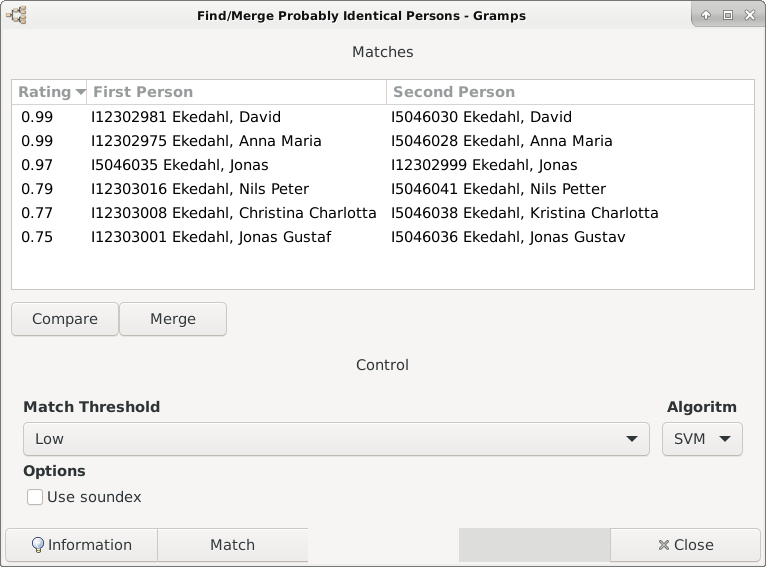
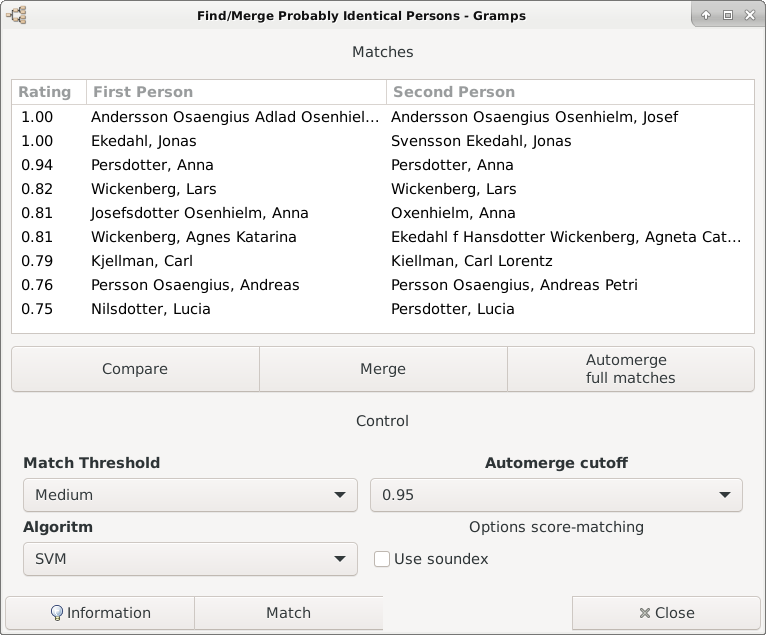
Implemented automerge of matches with rating above a cutoff

diff --git a/treemerge.py b/treemerge.py
@@ -55,6 +55,8 @@ from gramps.gui.dialog import RunDatabaseRepair
 from gramps.gen.const import GRAMPS_LOCALE as glocale
 _ = glocale.translation.sgettext
 from gramps.gui.glade import Glade
+from gramps.gen.merge import MergePersonQuery
+from gramps.gui.dialog import QuestionDialog3
 
 #from libaccess import *
 
@@ -77,13 +79,12 @@ _val2label = {
     0.75  : _("Medium"),
     0.9  : _("High"),
     }
-ALGORITM_SCORE = 1
-ALGORITM_SVM = 2
-_alg2label = {
-    ALGORITM_SCORE: _("Score"),
-    ALGORITM_SVM: _("SVM")
-    }
 
+_automergecutoff = {
+    0.99: "0.99",
+    0.95: "0.95",
+    0.90: "0.90"
+    }
 #WIKI_HELP_PAGE = '%s_-_Tools' % URL_MANUAL_PAGE
 #WIKI_HELP_SEC = _('Find_Possible_Duplicate_People', 'manual')
 
@@ -128,7 +129,7 @@ class TreeMerge(tool.Tool, ManagedWindow):  #CHECK use BatchTool when using auto
         self.p1 = None
         self.p2 = None
 
-        top = Glade(toplevel="treemerge", also_load=["liststore1", "liststore2"])
+        top = Glade(toplevel="treemerge", also_load=["liststore1", "liststore2", "liststore3"])
 
         # retrieve options
         threshold = self.options.handler.options_dict['threshold']
@@ -139,21 +140,32 @@ class TreeMerge(tool.Tool, ManagedWindow):  #CHECK use BatchTool when using auto
         for val in sorted(_val2label, reverse=True):
             my_menu.append([_val2label[val], val])
 
-        my_algmenu = Gtk.ListStore(str, object)
-        for val in sorted(_alg2label, reverse=True):
-            my_algmenu.append([_alg2label[val], val])
+        #my_algmenu = Gtk.ListStore(str, object)
+        #for val in sorted(_alg2label, reverse=True):
+        #    my_algmenu.append([_alg2label[val], val])
+
+        my_automergecutoff = Gtk.ListStore(str, object)
+        for val in sorted(_automergecutoff, reverse=True):
+            my_automergecutoff.append([_automergecutoff[val], val])
 
         self.soundex_obj = top.get_object("soundex1")
-        self.soundex_obj.set_active(1) # Default value
+        self.soundex_obj.set_active(0) # Default value
         self.soundex_obj.show()
 
         self.menu = top.get_object("menu1")
         self.menu.set_model(my_menu)
         self.menu.set_active(0)
 
-        self.algmenu = top.get_object("algoritmMenu")
-        self.algmenu.set_model(my_algmenu)
+        algoritm = Gtk.ListStore(str, object)
+        algoritm. append(["SVM", "svm"])
+        algoritm. append(["Score", "score"])
+        self.algmenu = top.get_object("algoritm")
+        self.algmenu.set_model(algoritm)
         self.algmenu.set_active(0)
+
+        self.automergecutoff = top.get_object("automergecutoff")
+        self.automergecutoff.set_model(my_automergecutoff)
+        self.automergecutoff.set_active(1)
 
         mlist = top.get_object("mlist1")
         mtitles = [
@@ -177,6 +189,9 @@ class TreeMerge(tool.Tool, ManagedWindow):  #CHECK use BatchTool when using auto
         compbtn.connect('clicked', self.do_comp)
         mergebtn = top.get_object("mergebtn")
         mergebtn.connect('clicked', self.do_merge)
+        automergebtn = top.get_object("automerge")
+        automergebtn.connect('clicked', self.do_automerge)
+        automergebtn.set_tooltip_text('WARN automerge')
         closebtn = top.get_object("closebtn")
         closebtn.connect('clicked', self.close)
 
@@ -233,7 +248,7 @@ class TreeMerge(tool.Tool, ManagedWindow):  #CHECK use BatchTool when using auto
 
     def redraw(self):
         list = []
-        for p1key, p1data in self.map.items():
+        for p1key, p1data in sorted(self.map.items(), key=lambda item: item[1][1], reverse=True):
             if p1key in self.dellist:
                 continue
             (p2key, c) = p1data
@@ -242,7 +257,6 @@ class TreeMerge(tool.Tool, ManagedWindow):  #CHECK use BatchTool when using auto
             if p1key == p2key:
                 continue
             list.append((c, p1key, p2key))
-
         self.mlist.clear()
         for (c, p1key, p2key) in list:
             c1 = "%5.2f" % c
@@ -251,8 +265,10 @@ class TreeMerge(tool.Tool, ManagedWindow):  #CHECK use BatchTool when using auto
             p2 = self.db.get_person_from_handle(p2key)
             if not p1 or not p2:
                 continue
-            pn1 = "%s %s" % (p1.gramps_id, name_displayer.display(p1))
-            pn2 = "%s %s" % (p2.gramps_id, name_displayer.display(p2))
+            #pn1 = "%s %s" % (p1.gramps_id, name_displayer.display(p1))
+            #pn2 = "%s %s" % (p2.gramps_id, name_displayer.display(p2))
+            pn1 = name_displayer.display(p1)
+            pn2 = name_displayer.display(p2)
             self.mlist.add([c1, pn1, pn2, c2],(p1key, p2key))
 
     def do_merge(self, obj):
@@ -265,6 +281,35 @@ class TreeMerge(tool.Tool, ManagedWindow):  #CHECK use BatchTool when using auto
         MergePerson(self.dbstate, self.uistate, self.track, self.p1, self.p2,
                     self.on_update, True)
 
+    def do_automerge(self, obj):
+        cutoff = self.automergecutoff.get_model()[self.automergecutoff.get_active()][1]
+        msg1 = 'Warning'
+        label_msg1 = 'OK'
+        label_msg2 = 'NO thanks'
+        ant = 0
+        matches = []
+        #sort by rating = c
+        for p1key, p1data in sorted(self.map.items(), key=lambda item: item[1][1], reverse=True):
+            if p1key in self.dellist:
+                continue
+            (p2key, c) = p1data
+            if c < cutoff or p2key in self.dellist:
+                continue
+            if p1key == p2key:
+                continue
+            matches.append((p1key, p2key))
+        msg2 = 'You are about to batch merge %d matches with rating above %s' % (len(matches), cutoff)
+        res = QuestionDialog3(msg1, msg2, label_msg1, label_msg2).run()
+        if not res or res == -1: return
+        for (p1key, p2key) in matches:
+            continue #TMP
+            primary = self.dbstate.db.get_person_from_handle(p1key)
+            secondary = self.dbstate.db.get_person_from_handle(p2key)
+            query = MergePersonQuery(self.dbstate.db, primary, secondary)
+            #TMP#query.execute()
+            #Handle names, events: birth, death
+            person = self.dbstate.db.get_person_from_handle(p1key)
+        
     def do_comp(self, obj):
         store, iter = self.mlist.selection.get_selected()
         if not iter:
@@ -384,9 +429,10 @@ class TreeMergeOptions(tool.ToolOptions):
 
         # Options specific for this report
         self.options_dict = {
-            'soundex'   : 1,
+            'soundex'   : 0,
             'threshold' : 0.75,
-            'algoritm': ALGORITM_SCORE,
+            'algoritm': 'svm',
+            'automergecutoff': 0.95
         }
         self.options_help = {
             'soundex'   : ("=0/1","Whether to use SoundEx codes",

diff --git a/match.py b/match.py
@@ -190,14 +190,13 @@ class Match():
                 done.append((p1key, p2key))
                 done.append((p2key, p1key))
                 p2 = self.db.get_person_from_handle(p2key)
-                if self.algoritm == 1: #FIX better way of selecting algoritm
+                if self.algoritm == 'score': #FIX better way of selecting algoritm
                     chance = self.compare_people(p1, p2) / 6.5  # MAX_CHANCE = 6.5 ??
                     combined_score = score * chance
                     score = combined_score
-                else:
+                elif self.algoritm == 'svm':
                     features = self.features.getFeatures(p1, p2, score)
                     score = self.clf.predict_proba([features])[0][1]
-                #score = features[1] + features[8] #personSim, familySim
                 if score >= threshold:
                     if p1key in self.my_map:
                         val = self.my_map[p1key]

diff --git a/README.md b/README.md
@@ -35,6 +35,7 @@ SVM categorisation is based on 'feature vectors' where features usually range fr
   * _firstNameSim_, Name equality
   * _firstNameStrSim_, String similarity of all names sorted and concatenated in a string
   * _lastNameSim_, Name equality
+  * _compareLifeSpans_, Lifespans compatible
 
 ## TODO/IDEAS
 
@@ -43,8 +44,6 @@ SVM categorisation is based on 'feature vectors' where features usually range fr
   (Now there is a limited version that show 1 generation above and below the match)
 
   - Using a full Graphview window with the 2 matched persons as center-person(s) would be ideal
-
-* Merge all 'certain match' without user intervention
 
 * Support family-matching and merging
 
@@ -56,8 +55,15 @@ SVM categorisation is based on 'feature vectors' where features usually range fr
 
 
 ## USE
+**Warning: Data Corruption Risk**
+
+Mass changes mean more potential for mangling the data. Back up your current tree **BEFORE** using this tool to merge.
+If something goes wrong, you will have a way to go back and start over. Make a Gramps XML backup. 
 
 Start Treemerge from the tools menu ('Family Tree Processing' -> 'Merge 2 trees by matching persons')
+
+Possibly select matching algoritm either 'SVM' SVM-based classification matching or
+'score' similar to Gramps score-based matching. Soundex is only used in 'score'-matching.
 
 Press **Match**
 
@@ -74,3 +80,5 @@ Clicking on a person in the graph will set the active person which
 can be usefull if you are using GraphView and want to inspect the families in more detail.
 
 In order to merge the selected matched pair of persons press **Merge**, which will start Gramps normal PersonMerge.
+
+If **Automerge** is pressed all matched pairs with a rating above the selected **Automerge cutoff** will be merged.
